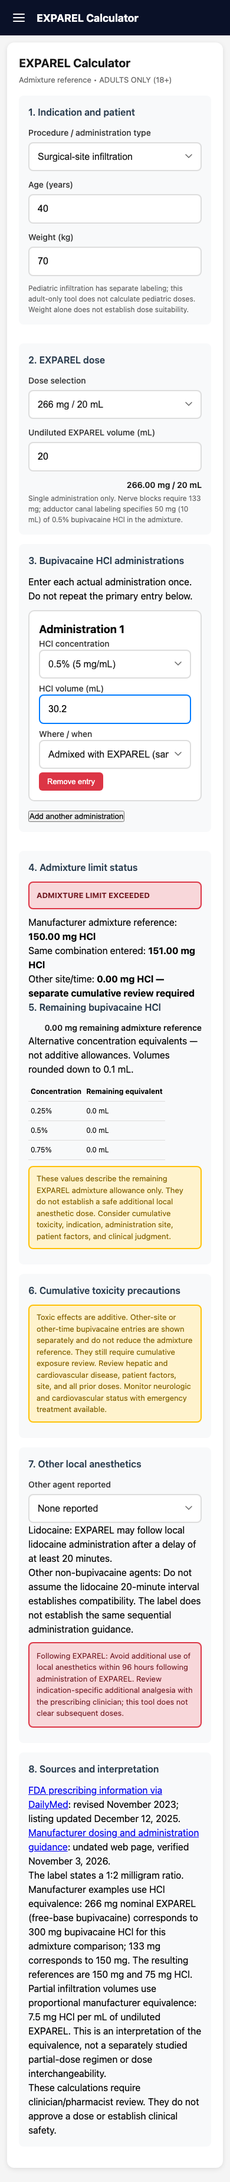
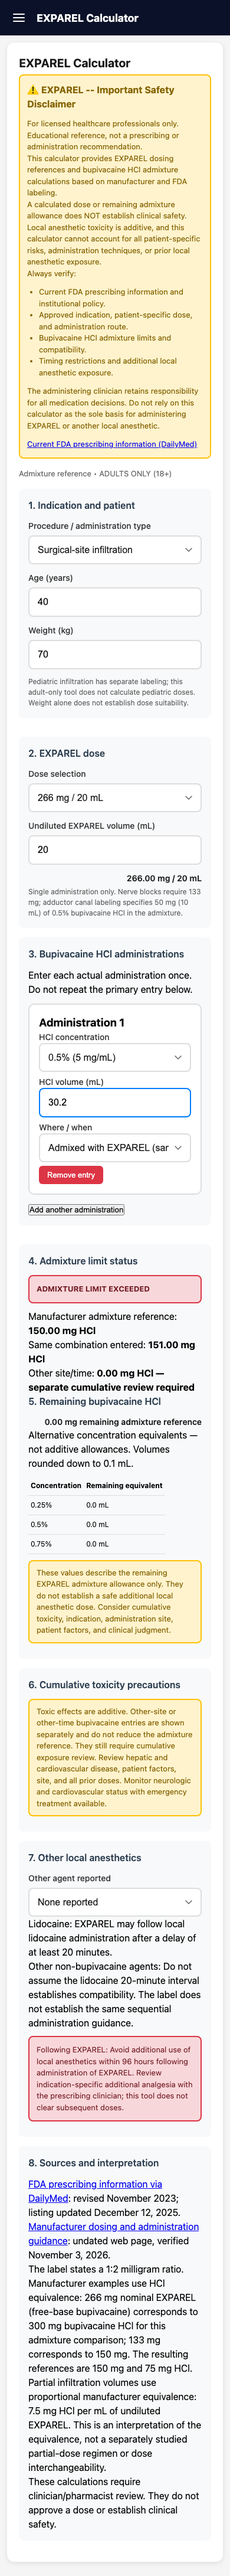
Add persistent EXPAREL safety disclaimer above inputs

diff --git a/index.html b/index.html
@@ -437,7 +437,23 @@
 
 <!-- ==================== PATIENT PROFILE ==================== -->
 <div id="panel-exparel" class="page-panel"><div class="container">
-<h1>EXPAREL Calculator</h1><p class="subtitle">Admixture reference • ADULTS ONLY (18+)</p>
+<h1>EXPAREL Calculator</h1>
+<aside id="ex-safety-disclaimer" class="disclaimer" aria-labelledby="ex-safety-title">
+<h2 id="ex-safety-title" style="font-size:16px;margin-bottom:12px;">⚠ EXPAREL -- Important Safety Disclaimer</h2>
+<p>For licensed healthcare professionals only. Educational reference, not a prescribing or administration recommendation.</p>
+<p>This calculator provides EXPAREL dosing references and bupivacaine HCl admixture calculations based on manufacturer and FDA labeling.</p>
+<p>A calculated dose or remaining admixture allowance does NOT establish clinical safety. Local anesthetic toxicity is additive, and this calculator cannot account for all patient-specific risks, administration techniques, or prior local anesthetic exposure.</p>
+<p>Always verify:</p>
+<ul style="padding-left:20px;margin:12px 0;">
+<li>Current FDA prescribing information and institutional policy.</li>
+<li>Approved indication, patient-specific dose, and administration route.</li>
+<li>Bupivacaine HCl admixture limits and compatibility.</li>
+<li>Timing restrictions and additional local anesthetic exposure.</li>
+</ul>
+<p>The administering clinician retains responsibility for all medication decisions. Do not rely on this calculator as the sole basis for administering EXPAREL or another local anesthetic.</p>
+<p style="margin-top:12px;"><a href="https://dailymed.nlm.nih.gov/dailymed/drugInfo.cfm?setid=bb5a9e59-0f51-11df-8a39-0800200c9a66" target="_blank" rel="noopener">Current FDA prescribing information (DailyMed)</a></p>
+</aside>
+<p class="subtitle">Admixture reference • ADULTS ONLY (18+)</p>
 <div class="section"><h2 class="section-title">1. Indication and patient</h2>
 <label for="ex-indication">Procedure / administration type</label><select id="ex-indication" class="native-select"><option value="">Select indication first</option><option value="infiltration">Surgical-site infiltration</option><option value="interscalene">Interscalene brachial plexus block</option><option value="sciatic">Sciatic block in popliteal fossa</option><option value="adductor">Adductor canal block</option><option value="other">Other / unsupported indication</option><option value="paracervical">Obstetrical paracervical block — contraindicated</option></select>
 <div class="input-group"><label for="ex-age">Age (years)</label><input id="ex-age" type="number" min="18" max="120" step="1"></div>

diff --git a/review/REVIEW.md b/review/REVIEW.md
@@ -39,3 +39,6 @@ git diff --check
 ```
 8/8 calculation groups pass. Chromium browser checks pass with zero page errors. No horizontal overflow at 390, 768 and 1440 px. Within and exceeded mobile screenshots visually inspected.
 No physical mobile device, Safari/WebKit, offline/update acceptance or clinician/pharmacist sign-off performed. No new dependency installed. Temporary test browser and HTTP server closed. No worker resources launched. Main and the earlier clinical-validation worktree remain unchanged.
+
+## Persistent disclaimer follow-up
+Added the user's exact safety disclaimer immediately after the EXPAREL h1, using the existing amber disclaimer panel and supplied warning icon, with a current DailyMed FDA prescribing-information link. Static, non-dismissible markup; no acknowledgment state or calculation changes. First-launch disclaimer unchanged. Browser checks verify visibility on reopening and reload, placement before inputs, amber color, absence of dismiss controls, source URL, and preservation of the first-launch acknowledgment behavior. All eight calculation groups and responsive browser checks pass again. Updated within/exceeded mobile captures and added mobile-disclaimer.png; visually inspected the disclaimer render. No physical-device or clinical validation performed.
